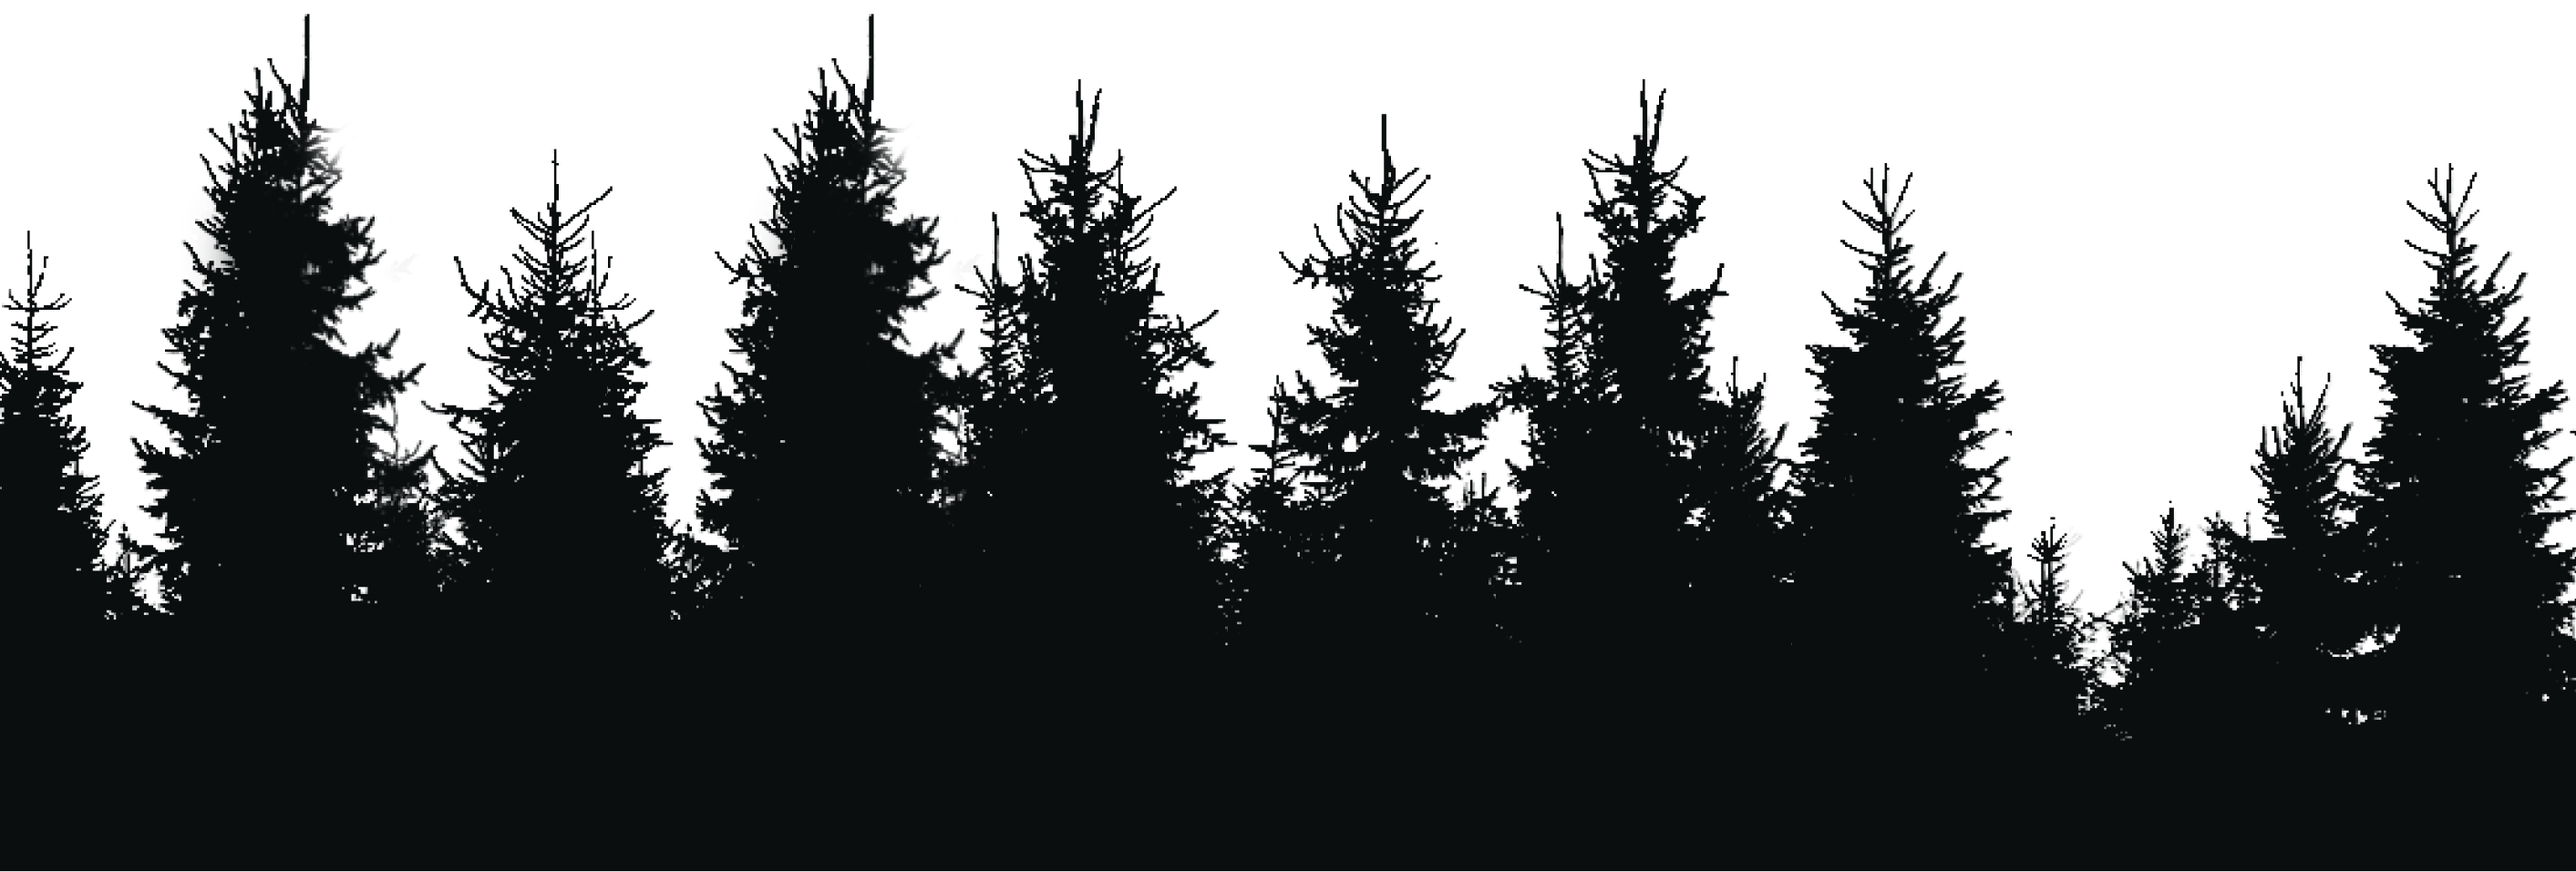
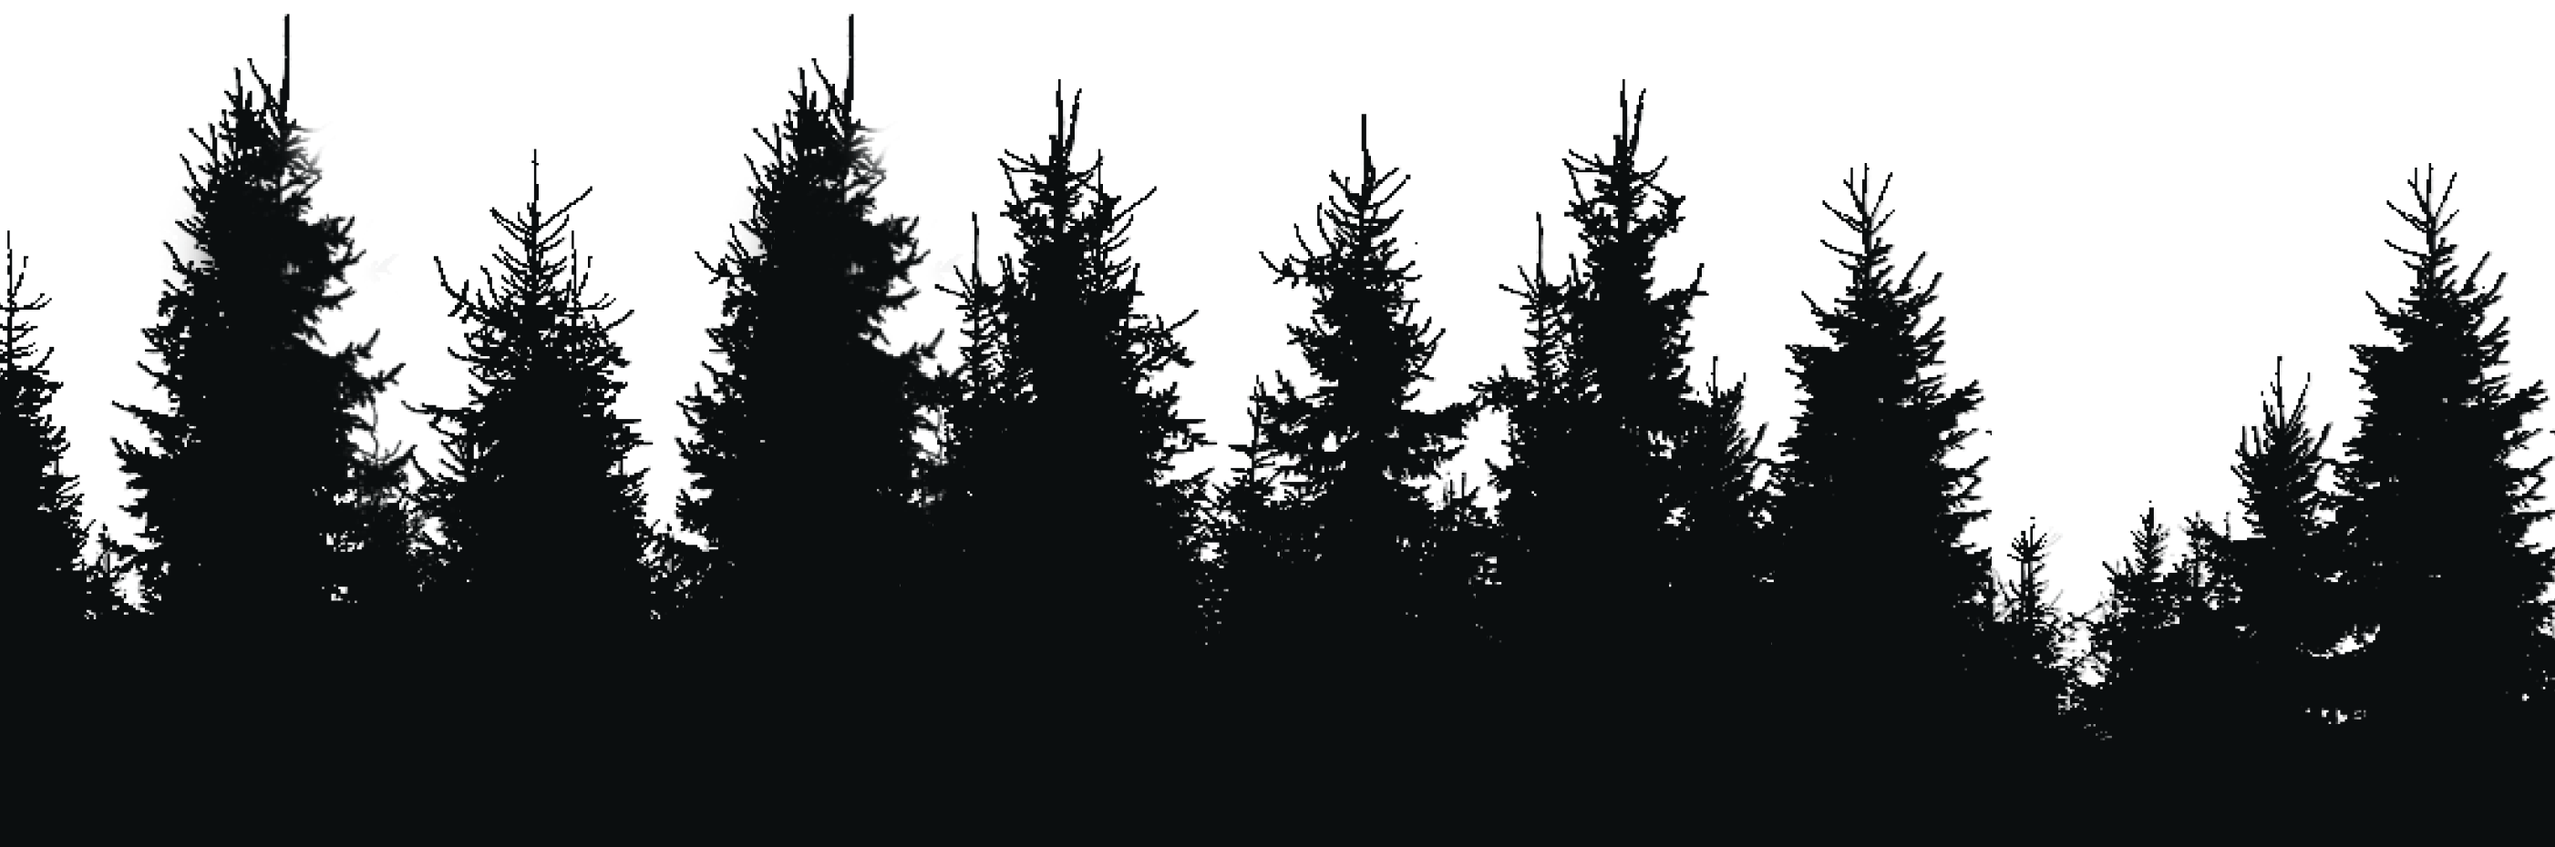
feat: applying dark side of page

diff --git a/components/synopse.js b/components/synopse.js
@@ -5,7 +5,7 @@ import duMet from "@/svg/synopsedumet.svg";
 export default function Synopse() {
   return (
     <div className="bg-[#252323] h-[600px] max-w-[1050px] first-letter: rounded-[6rem] my-12">
-      <div className="bg-[url('../images/synopsebackground.png')] bg-contain bg-no-repeat bg-bottom h-full flex ">
+      <div className="bg-[url('../images/synopsebackground.png')] bg-contain rounded-[6rem] bg-no-repeat bg bg-bottom h-full flex">
         <Image
           src={duMet}
           alt="Du'Met"
@@ -23,7 +23,7 @@ export default function Synopse() {
             observados e até manipulados, e de repente, há muito mais em jogo do
             que imaginam...
           </p>
-          <a className="text-redbase text-center font-bold text-3xl ml-20">
+          <a className="text-redbase text-center font-bold text-3xl ml-20 justify-center cursor-pointer flex gap-2 hover:gap-4 transition-all duration-500 hover:text-red-600 hover:scale-110">
             SAIBA MAIS{" "}
             <span>
               <i class="bi bi-arrow-right"></i>

diff --git a/app/page.js b/app/page.js
@@ -4,6 +4,7 @@ import Synopse from "@/components/synopse";
 import Trailer from "@/components/trailer";
 
 import darkforest from "@/images/darkbackgroundforest.png";
+import Characters from "@/components/characters";
 
 export default function Home() {
   return (
@@ -12,7 +13,10 @@ export default function Home() {
       <div className="bg-[url('../images/trailerbackground.png')] bg-contain bg-no-repeat bg-fixed bg-top w-full items-center flex flex-col justify-center">
         <Synopse />
         <Trailer />
-        <Image src={darkforest} alt="floresta negra" className="" />
+        <Image src={darkforest} alt="floresta negra" className="-mt-20" />
+      </div>
+      <div className="bg-darkgray w-full">
+        <Characters />
       </div>
     </main>
   );

diff --git a/components/characters.js b/components/characters.js
@@ -1,0 +1,3 @@
+export default function Characters() {
+  return <div className="h-screen"></div>;
+}
